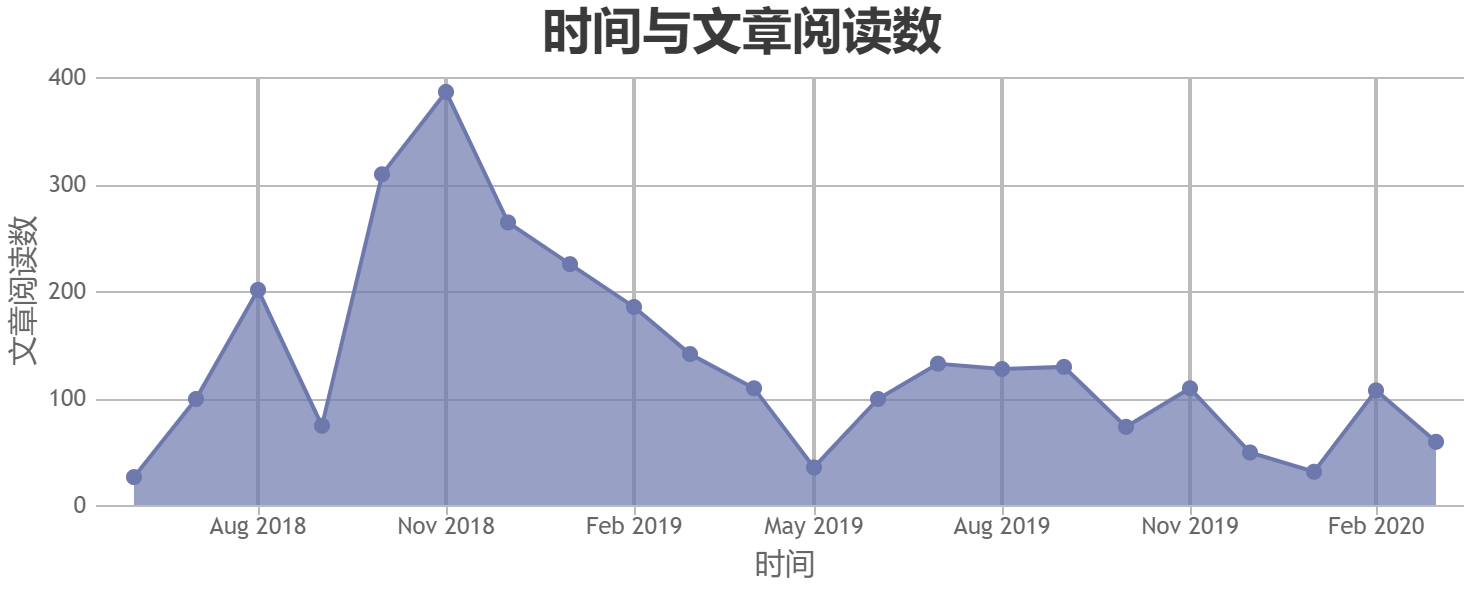
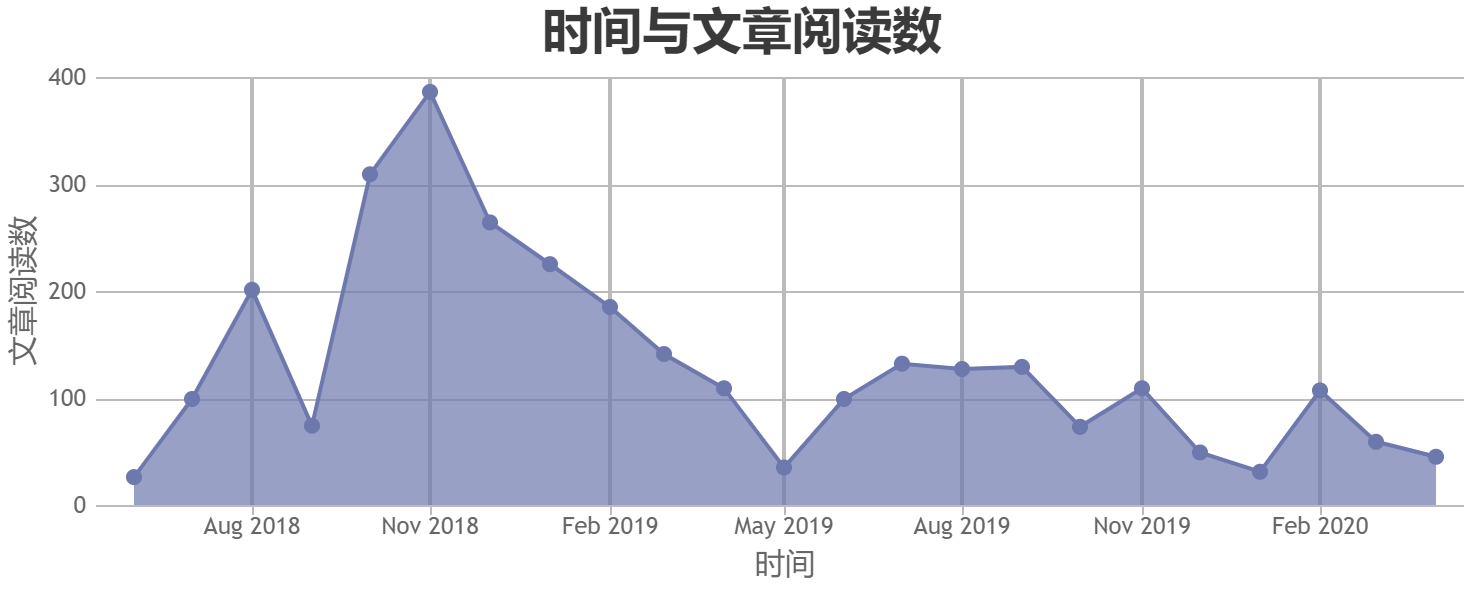
2020-4-1

diff --git a/index.html b/index.html
@@ -47,6 +47,7 @@
 
                         { x: new Date(2020, 1), y: 108 },
                         { x: new Date(2020, 2), y: 60 },
+                        { x: new Date(2020, 3), y: 46 },
                     ]
                 }]
             });

diff --git a/number.py b/number.py
@@ -8,10 +8,10 @@ Created on Fri Sep 14 09:12:16 2018
 import matplotlib.pyplot as plt
 date=['2018-5','2018-6','2018-7','2018-8','2018-9','2018-10','2018-11','2018-12',
     '2019-1','2019-2','2019-3','2019-4','2019-5','2019-6','2019-7','2019-8','2019-9','2019-10','2019-11','2019-12',
-    '2020-1','2020-2']
+    '2020-1','2020-2','2020-3']
 number=[27,100,202,75,310,387,265,226,
         186,142,110,36,100,133,128,130,74,110,50,32,
-        108,60]
+        108,60,46]
 print("total number: ",sum(number))
 
 plt.figure(figsize=(10,10))

diff --git a/README.md b/README.md
@@ -1,12 +1,14 @@
 # 本仓库用来存放我看过的认为比较好的文章---根据时间排序
 若想看根据分类排序 [good-articlles-by-sort](https://github.com/zhang0peter/good-articles-by-sort)         
 ![number](number.png)            
-共2991篇文章        
+共3037篇文章        
 
 
-## 2020-3 
+## 2020-4 
 *   []()
 *   []()
+
+## 2020-3  共46篇
 *   [**大白话说期权——除了买涨买跌，我们还能怎么交易？二元期权又是什么鬼？ - 知乎**](https://zhuanlan.zhihu.com/p/19962890)
 *   [找一种独特技术指标的组合形成自己的交易系统，那也是我曾经的梦想 - 知乎](https://zhuanlan.zhihu.com/p/19971182)
 *   [图穷匕见 - 知乎](https://zhuanlan.zhihu.com/p/20058411)         
